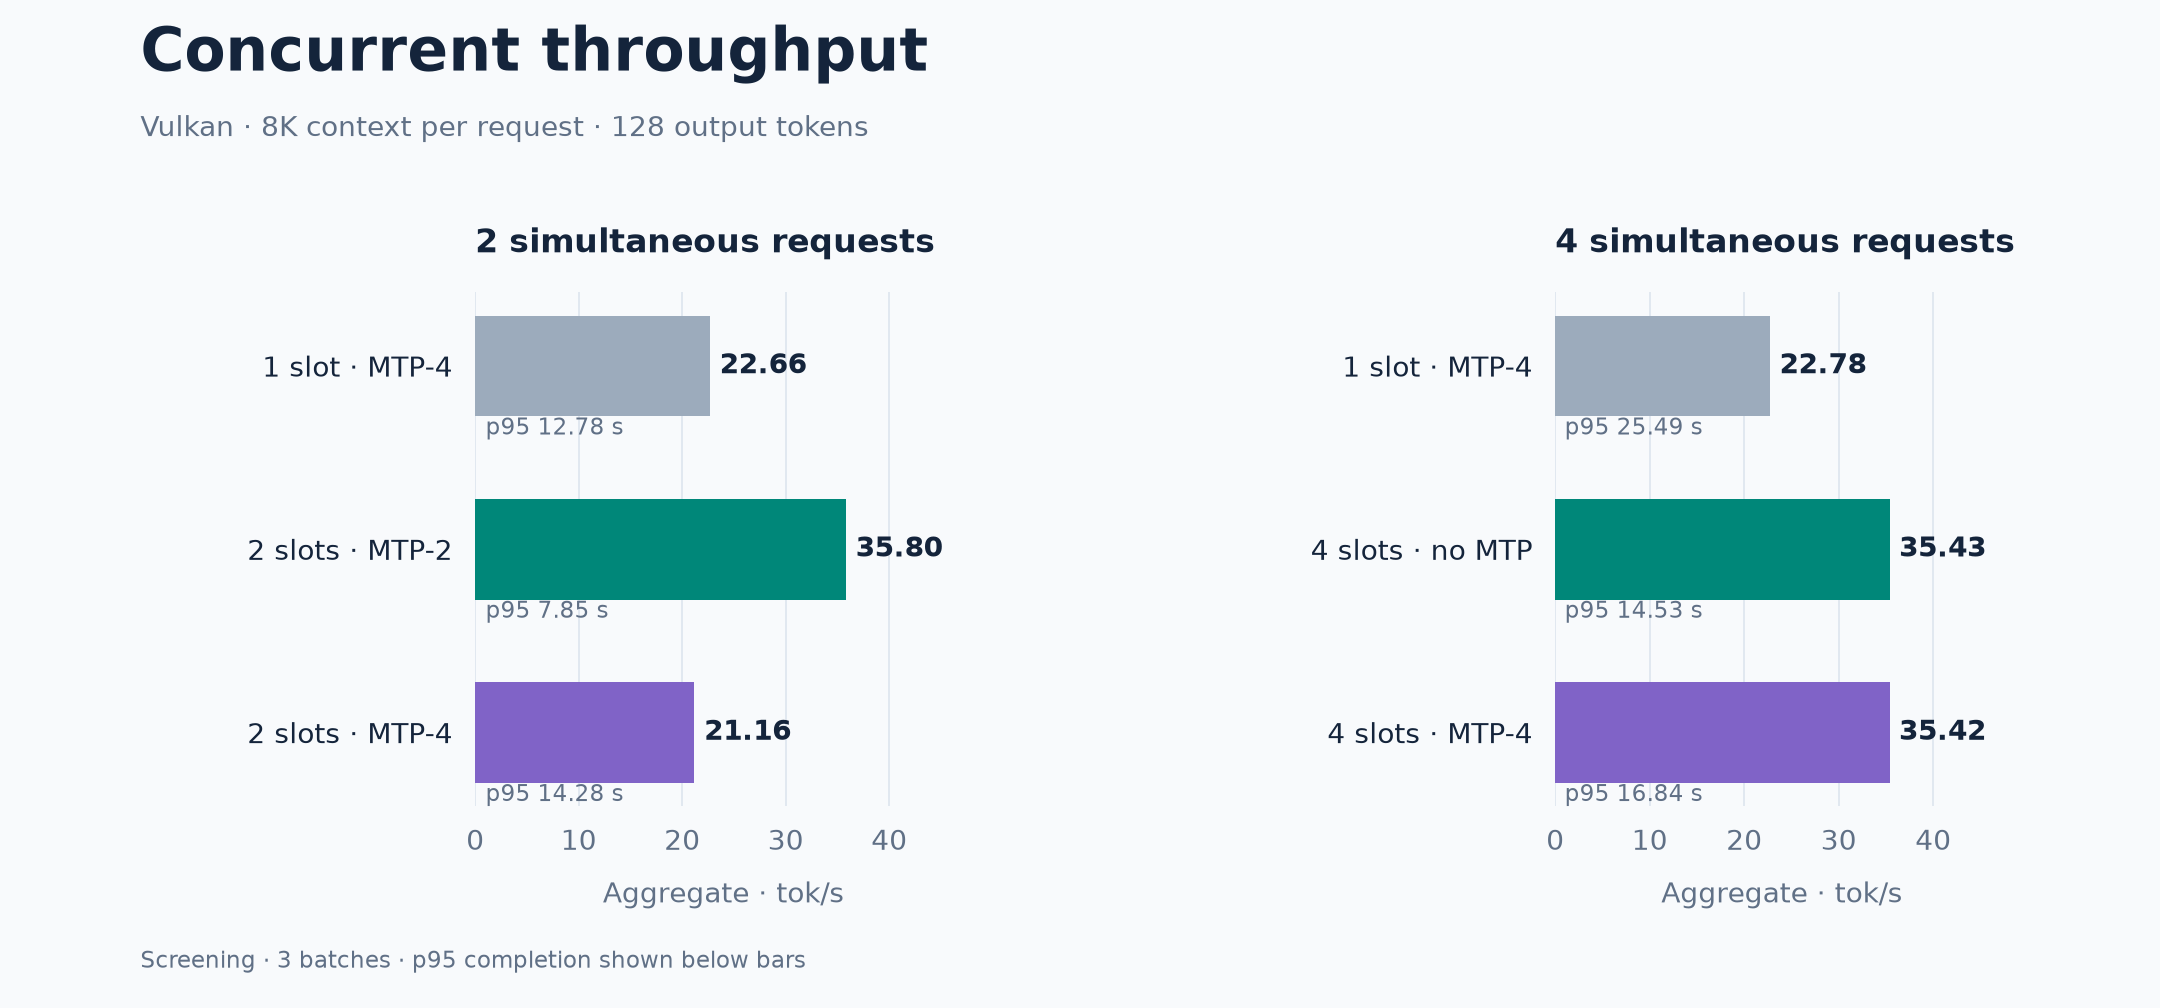
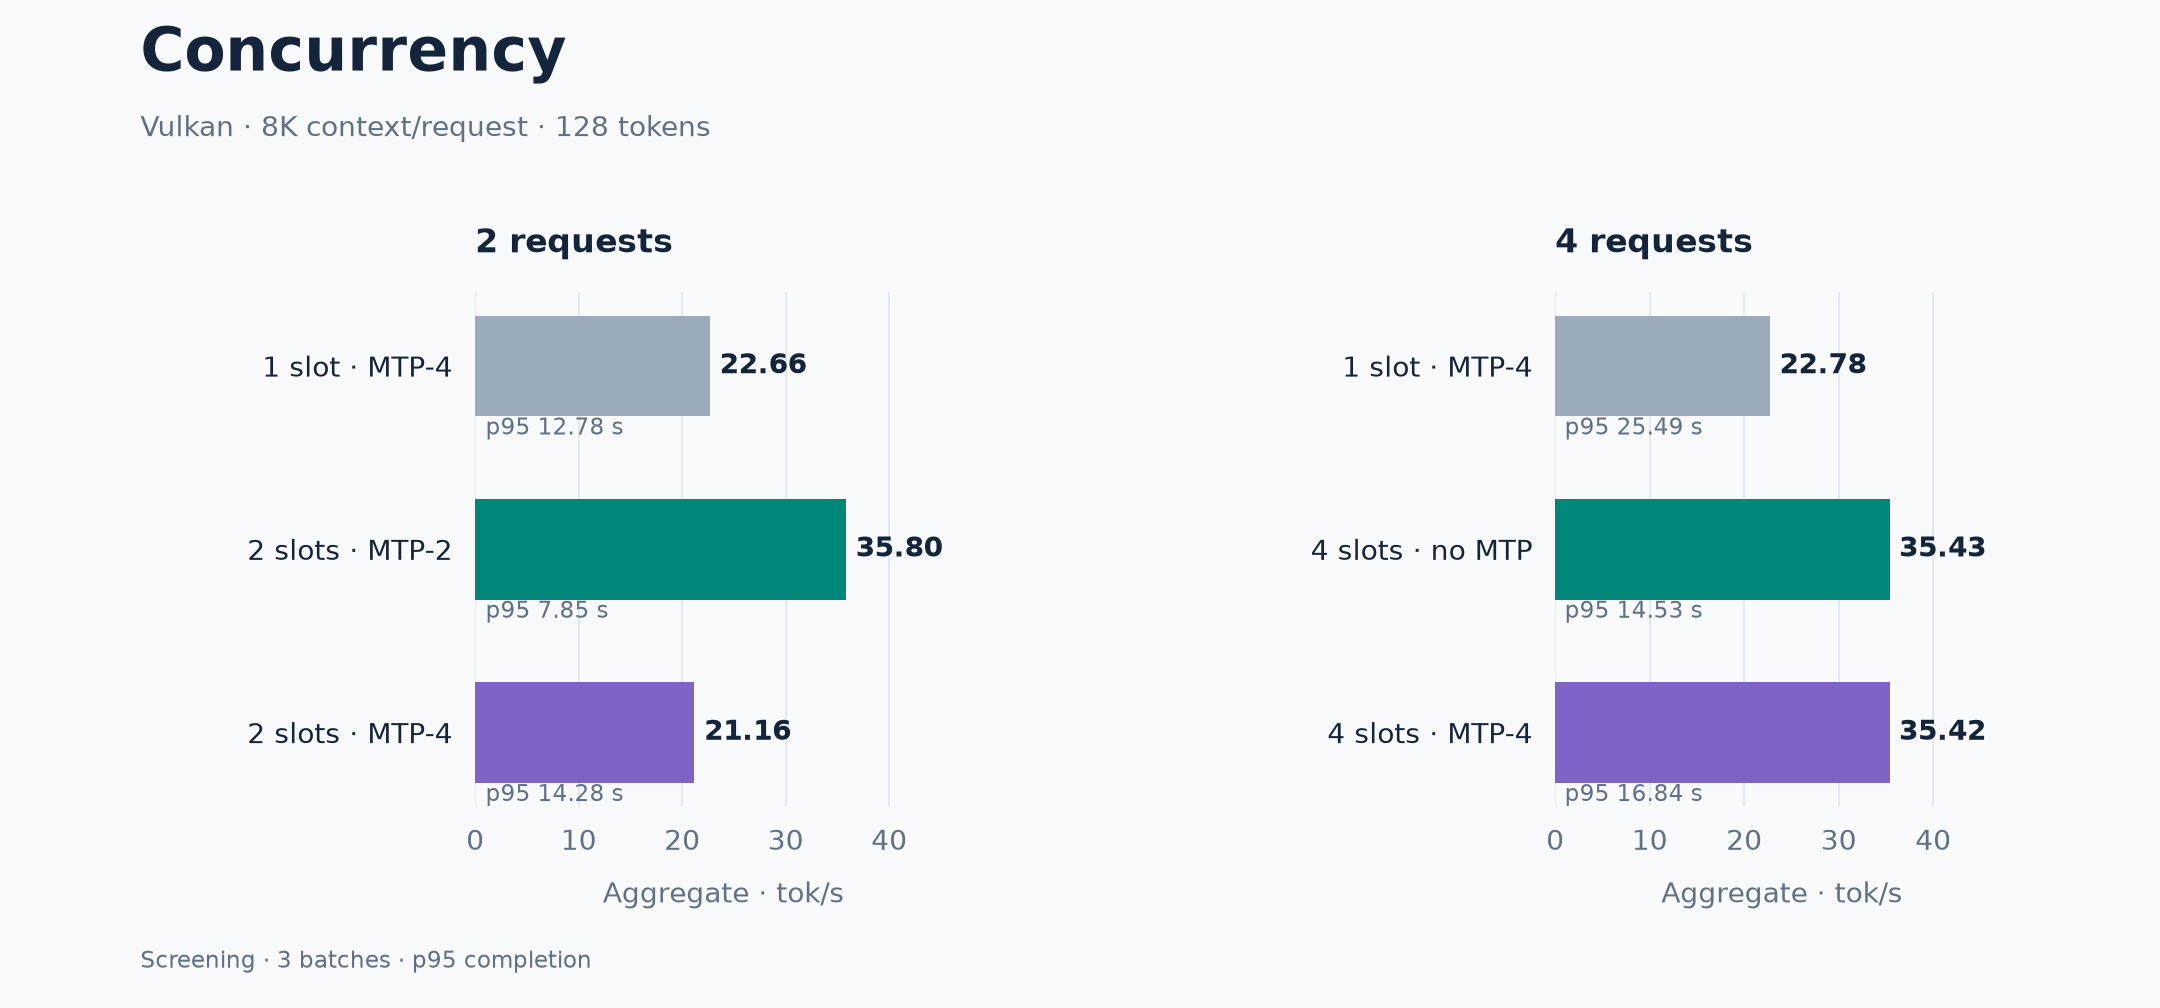
docs: minimize benchmark prose and chart labels

diff --git a/tools/render_charts.py b/tools/render_charts.py
@@ -56,28 +56,28 @@ def save(fig, name):
 
 
 initial = D['initial']; deployed = initial['deployed']; plain = initial['plain-vulkan']
-fig = figure('Gemma 4 31B performance',
-    'ASUS ROG Flow Z13 (2025) · Ryzen AI Max+ 395 · 64 GiB',
-    'Vulkan · Q4_K_M · 128 output tokens · 9 requests', 6.2)
-for x, value, label, color in [(.065, f"{deployed['median_decode_tps']:.2f}", 'TOKENS / SECOND · MEDIAN', BLUE),
+fig = figure('Gemma 4 31B',
+    'ROG Flow Z13 (2025)',
+    'Vulkan · Q4_K_M · 128 tokens · n=9', 6.2)
+for x, value, label, color in [(.065, f"{deployed['median_decode_tps']:.2f}", 'MEDIAN TOK/S', BLUE),
         (.385, f"{deployed['median_decode_tps']/plain['median_decode_tps']:.2f}×", 'VS PLAIN VULKAN', TEAL),
-        (.715, f"{deployed['ttft_p50_s']:.3f} s", 'FIRST TOKEN · MEDIAN', PURPLE)]:
+        (.715, f"{deployed['ttft_p50_s']:.3f} s", 'MEDIAN TTFT', PURPLE)]:
     fig.text(x, .735, value, fontsize=31, fontweight='bold', color=color)
     fig.text(x, .685, label, fontsize=9, color=MUTED)
-ax=axis(fig,[.18,.18,.68,.36], 'Generation throughput', 'Median · tok/s')
+ax=axis(fig,[.18,.18,.68,.36], 'Generation', 'Median · tok/s')
 bars(ax,['MTP-4','Plain'],[deployed['median_decode_tps'],plain['median_decode_tps']],[BLUE,GREY],35)
 save(fig,'overview')
 
-fig=figure('MTP draft depth',
+fig=figure('MTP depth',
     'Vulkan · Q4_K_M · Q8 assistant',
-    'Screening · 9 requests per case')
-ax=axis(fig,[.09,.19,.81,.54],unit='Maximum draft tokens')
+    'Screening · n=9')
+ax=axis(fig,[.09,.19,.81,.54],unit='Draft tokens')
 ax.grid(axis='y',color=GRID); ax.xaxis.grid(False)
 rows=sorted(D['depth'],key=lambda r:int(r['case'].removeprefix('mtp')))
 x=[int(r['case'].removeprefix('mtp')) for r in rows]; y=[r['median_tps'] for r in rows]
 ax.plot(x,y,color=BLUE,lw=2.5,marker='o',markersize=7)
 ax.fill_between(x,y,0,color=BLUE,alpha=.06)
-ax.set_ylim(0,30);ax.set_xticks(x);ax.set_ylabel('Median generation · tok/s')
+ax.set_ylim(0,30);ax.set_xticks(x);ax.set_ylabel('Median · tok/s')
 for a,b in zip(x,y):ax.annotate(f'{b:.2f}',(a,b),xytext=(0,12),textcoords='offset points',ha='center',fontsize=10)
 ax.scatter([4],[y[3]],s=140,color=TEAL,zorder=5)
 save(fig,'speculation')
@@ -85,18 +85,18 @@ save(fig,'speculation')
 q=D['target-quants-results']; labels=['Q4_K_M','IQ4_XS','Q4_0']; names=['baseline-before','iq4_xs','q4_0']
 fig=figure('Quantization',
     'Vulkan · MTP-4',
-    'Screening · quality validation incomplete')
+    'Screening · quality pending')
 ax=axis(fig,[.17,.20,.30,.51],'Aggregate decode','tok/s')
 bars(ax,labels,[q[n]['aggregate_decode_tps'] for n in names],[GREY,PURPLE,TEAL],34)
 ax=axis(fig,[.66,.20,.26,.51],'First token · p95','seconds')
 bars(ax,labels,[q[n]['ttft_p95_s'] for n in names],[GREY,PURPLE,TEAL],.82,decimals=3)
 save(fig,'quantization')
 
-fig=figure('Long-context latency',
-    'Vulkan · cold prefix · 128 output tokens',
-    'Screening · 3 requests · context capacity = 2× input')
+fig=figure('Context latency',
+    'Vulkan · cold prefix · 128 tokens',
+    'Screening · n=3 · context = 2× input')
 for rect,key,title in [([.09,.21,.36,.51],'ttft_p50_s','First token · median'),([.59,.21,.34,.51],'completion_p50_s','Completion · median')]:
-    ax=axis(fig,rect,title,'Actual input tokens'); ax.xaxis.grid(False);ax.grid(axis='y',color=GRID)
+    ax=axis(fig,rect,title,'Input tokens'); ax.xaxis.grid(False);ax.grid(axis='y',color=GRID)
     for kv,label,color in [('f16','F16',GREY),('q8_0','Q8',TEAL),('q4_0','Q4',PURPLE)]:
         vals=[]
         for ctx in [8192,16384,32768]:
@@ -110,20 +110,20 @@ for rect,key,title in [([.09,.21,.36,.51],'ttft_p50_s','First token · median'),
 save(fig,'long-context')
 
 c=D['concurrency-results']
-fig=figure('Concurrent throughput',
-    'Vulkan · 8K context per request · 128 output tokens',
-    'Screening · 3 batches · p95 completion shown below bars')
-for rect,title,keys,labels in [([.22,.20,.23,.51],'2 simultaneous requests', ['queued2-mtp4','clients2-mtp2','clients2-mtp4'],['1 slot · MTP-4','2 slots · MTP-2','2 slots · MTP-4']),
-    ([.72,.20,.21,.51],'4 simultaneous requests',['queued4-mtp4','clients4-mtp0','clients4-mtp4'],['1 slot · MTP-4','4 slots · no MTP','4 slots · MTP-4'])]:
+fig=figure('Concurrency',
+    'Vulkan · 8K context/request · 128 tokens',
+    'Screening · 3 batches · p95 completion')
+for rect,title,keys,labels in [([.22,.20,.23,.51],'2 requests', ['queued2-mtp4','clients2-mtp2','clients2-mtp4'],['1 slot · MTP-4','2 slots · MTP-2','2 slots · MTP-4']),
+    ([.72,.20,.21,.51],'4 requests',['queued4-mtp4','clients4-mtp0','clients4-mtp4'],['1 slot · MTP-4','4 slots · no MTP','4 slots · MTP-4'])]:
     ax=axis(fig,rect,title,'Aggregate · tok/s')
     bars(ax,labels,[c[k]['aggregate_wall_tps'] for k in keys],[GREY,TEAL,PURPLE],48)
     for i,k in enumerate(keys):
         ax.text(1,i+.28,f"p95 {c[k]['completion_p95_s']:.2f} s",color=MUTED,fontsize=9,va='top')
 save(fig,'concurrency')
 
-fig=figure('Vulkan kernel dispatch',
+fig=figure('Kernel dispatch',
     'Q4_K matrix · 21,504 × 5,376',
-    'Diagnostic trace · generation from separate screening batches')
+    'Diagnostic trace · separate screening batches')
 ax=axis(fig,[.23,.20,.23,.51],'Operation duration','microseconds / call')
 bars(ax,['5 columns · MMV','9 columns · MM'],D['kernel']['duration_us'],[TEAL,GOLD],1250,decimals=0)
 ax=axis(fig,[.76,.20,.17,.51],'Median generation','tok/s')

diff --git a/docs/methodology.md b/docs/methodology.md
@@ -1,38 +1,35 @@
-# Measurement protocol
+# Metrics
 
-## Workloads
+## Protocol
 
-| Suite | Inputs | Outputs | Repetitions |
+| Suite | Input | Output | Timed runs |
 |---|---|---|---|
-| Interactive | English prose, Python, Korean | 128 fixed tokens | 1 warmup + 3 timed / prompt |
-| Long context | 4096 / 8192 / 16384 actual tokens; cold and reused prefixes | 128 fixed tokens | 1 warmup + 3 timed / workload |
-| Concurrency | 1 / 2 / 4 simultaneous requests; 8192 context tokens per request | 128 tokens / request | 1 warmup + 3 timed batches |
+| Interactive | English, Python, Korean | 128 tokens | 3 / prompt |
+| Context | 4K / 8K / 16K; cold/reused | 128 tokens | 3 / case |
+| Concurrency | 1 / 2 / 4 clients; 8K context/client | 128 tokens/client | 3 batches |
 
-Fixed-length comparisons disable reasoning, use greedy sampling, and ignore EOS. Service canaries separately check natural EOS, default reasoning, authentication, Korean, code, retrieval, and streaming token accounting.
+One discarded warmup. Greedy decoding; reasoning off; fixed length. Serial runs with baseline brackets. Natural EOS and default reasoning checked separately.
 
-Cases run serially. Candidate order is randomized where configured, with baseline brackets. No downloads, conversions, or other GPU work run during timed batches.
+## Definitions
 
-## Metrics
-
-| Metric | Definition |
+| Metric | Calculation |
 |---|---|
-| Median decode | Median `(predicted_n − 1) / generation_seconds` across requests |
-| Aggregate decode | Sum of generated tokens excluding first tokens / summed generation time |
-| Aggregate wall throughput | All generated tokens / summed batch wall time; includes request overhead |
-| TTFT | Client time from request start to first streamed content |
-| Completion | Client time from request start to completed response |
-| p95 | Linear interpolation of sorted observations |
+| Median decode | Median `(tokens − 1) / generation time` |
+| Aggregate decode | `Σ(tokens − 1) / Σgeneration time` |
+| Wall throughput | `Σtokens / Σbatch wall time` |
+| TTFT | Request → first content |
+| Completion | Request → final response |
+| p95 | Interpolated 95th percentile |
 
-Streaming chunks can contain multiple speculative tokens. Chunk-arrival gaps do not measure individual internal GPU token latency. Small screening samples produce descriptive percentiles, not robust tail estimates. Package-power readings are not wall-plug measurements.
+Stream chunks may contain multiple tokens. Small-sample p95 is descriptive. Package power excludes wall-plug losses.
 
-## Promotion gates — incomplete
+## Gates
 
-Finalists require ten randomized adjacent baseline/candidate pairs, ≥5% primary improvement, a paired 95% confidence interval excluding zero, and ≤5% secondary latency regression. Backend correctness, service canaries, sustained load, restart recovery, and no GPU resets are additional requirements.
+| Check | Requirement |
+|---|---|
+| Performance | ≥5% gain; ten pairs; positive 95% paired interval |
+| Secondary latency | ≤5% regression |
+| Quantization | ≤1% relative PPL increase/language; ≤2 pp coding loss |
+| Correctness | Backend tests, JSON, retrieval, EOS, restart, sustained load; no GPU resets |
 
-Changed quantization requires ≤1% relative perplexity increase separately on fixed English/Korean corpora, ≤2 percentage-point coding-score loss, and no new strict JSON or retrieval failures.
-
-The fixed perplexity samples produced unusually high absolute scores. An independent logit probe reproduced a chunk score, but this remains a narrow relative comparison. No general quality equivalence is claimed.
-
-## State at pause
-
-No follow-up preset completed all gates. The thermal plateau check rejected phase-dependent temperature cycles and needs review before final paired runs. Early smoke checks extracted fenced JSON; those checks establish semantic content only. Later checks parse the complete response as strict JSON.
+Final validation incomplete. Thermal plateau check failed. Absolute PPL scores were unusually high. Early JSON smoke accepted fences; later checks parse the complete response.

diff --git a/docs/setup.md b/docs/setup.md
@@ -1,6 +1,6 @@
 # Setup
 
-Fedora 44 · AC power · default path: `/srv/amd-halo`. [Software versions](../data/software.json).
+Fedora 44 · AC power · `/srv/amd-halo` · [Versions](../data/software.json)
 
 ## Build & models
 
@@ -12,9 +12,9 @@ bash scripts/build.sh vulkan
 python3 scripts/download.py Q4_K_M MTP --directory /srv/amd-halo/models
 ```
 
-Runtime/model hashes: [`versions.json`](../versions.json). Target: 18.32 GB; assistant: 0.51 GB.
+[Hashes](../versions.json) · target 18.32 GB · assistant 0.51 GB
 
-Native HIP is optional:
+### HIP
 
 ```sh
 python3 -m venv /srv/amd-halo/rocm-venv
@@ -36,7 +36,7 @@ sudo docker image inspect amd-halo-gemma4:vulkan --format '{{.Id}}'
 cp .env.example .env
 ```
 
-Set `HALO_IMAGE` to the inspected image ID, `RENDER_GID` to the render-device group, and `API_KEY_FILE` to a private file outside Git. Create `/srv/amd-halo/cache` writable by UID 1000. The Compose container uses UID/GID 1000; adapt those IDs if needed.
+Set `.env`: `HALO_IMAGE`, `RENDER_GID`, `API_KEY_FILE`. Credentials outside Git; cache writable by container UID 1000.
 
 ```sh
 sudo docker compose -f compose.yaml -f compose.mtp.yaml up -d
@@ -44,7 +44,7 @@ python3 scripts/validate_service.py --url http://127.0.0.1:8080 \
   --key-file /srv/amd-halo/secrets/api-key --output results/service-validation.json
 ```
 
-The authenticated OpenAI-compatible endpoint is `http://127.0.0.1:8080/v1`, with model alias `gemma-4-31b`. It binds to loopback; use an SSH tunnel for remote access. API reasoning remains enabled by default.
+API: `http://127.0.0.1:8080/v1` · `gemma-4-31b` · bearer authentication · default reasoning
 
 ## Profile
 
@@ -53,16 +53,16 @@ python3 scripts/http_profile.py --url http://127.0.0.1:8080 \
   --key-file /srv/amd-halo/secrets/api-key --output results/http.json
 ```
 
-Stop Compose before native benchmarks. Reference checkout: `/srv/amd-halo/stack`. [Experiment guide](../experiments/README.md).
+Native runs: stop Compose first. [Harness](../experiments/README.md).
 
-Benchmarks use the performance profile. `systemd/amd-halo-performance.service` applies it; stopping the unit restores balanced.
+Power: performance. Stop `amd-halo-performance.service` to restore balanced.
 
 ## Restore / stop
 
 ```sh
-# Restore the preserved Q4_K_M / MTP-4 configuration after an experiment:
+# Restore:
 sudo docker compose -f compose.yaml -f compose.mtp.yaml up -d
-# Stop inference without deleting models:
+# Stop:
 sudo docker compose -f compose.yaml -f compose.mtp.yaml down
 ```
 

diff --git a/experiments/README.md b/experiments/README.md
@@ -1,18 +1,16 @@
-# Experimental harness
+# Harness
 
-Manifests use example host paths under `/srv/amd-halo`. They are screening configurations, not qualified deployment presets. Adjust paths before use; preserve the original stack at `/srv/amd-halo/stack`.
+Reference: `/srv/amd-halo/stack`. Lock: `/srv/amd-halo/experiments/benchmark.lock`.
 
-Copy `scripts/`, `experiments/`, `patches/`, and `versions.json` into an isolated experiment directory. The wrapper takes `/srv/amd-halo/experiments/benchmark.lock`, stops the reference service, and restores it on exit.
+Copy `scripts/`, `experiments/`, `patches/`, and `versions.json` into an isolated directory. The wrapper stops/restores Compose.
 
 ```sh
 bash scripts/run-campaign.sh experiments/long-context.json context-results
 python3 scripts/analyze-campaign.py context-results
 ```
 
-Run only one GPU workload at a time. Use fresh result directories for incomplete cases. Numerical tests must execute nonempty case selections and retain upstream tolerances.
+One GPU workload at a time. Fresh directories for incomplete runs. Nonempty numerical tests; upstream tolerances.
 
-Ten-pair finalist manifests can be generated with `scripts/make-pairs.py`. The current thermal plateau criterion failed on workload temperature cycles and needs review before final paired use. `screen-final-candidates.sh` queues unfinished stages; do not interpret its existence as completed validation.
+Thermal stabilization needs repair before paired validation. Coding evaluation requires the evaluator image ID. No automatic promotion.
 
-Quality tools cover fixed bilingual perplexity, restricted-container HumanEval, and strict JSON/retrieval canaries. The coding evaluator requires its immutable container image ID. No script promotes a candidate automatically.
-
-See [methodology](../docs/methodology.md), [experiment findings](../docs/experiments.md), and [setup / rollback](../docs/setup.md).
+[Setup](../docs/setup.md) · [Metrics](../docs/methodology.md)

diff --git a/docs/experiments.md b/docs/experiments.md
@@ -1,27 +1,21 @@
 # Experiments
 
-## MTP depth
+![MTP depth](../assets/speculation.png)
 
-![MTP draft depth](../assets/speculation.png)
-
-Depth 4 remains the reference. Confidence filtering and adaptive MTP produced no qualifying gain.
-
-## Kernel dispatch
-
-![Vulkan kernel dispatch](../assets/kernel-boundary.png)
-
-The 16-column dispatch patch improved MTP-8 but did not beat MTP-4. Selected numerical checks passed. The HIP wide-attention patch remains unqualified.
-
-## Results
+![Kernel dispatch](../assets/kernel-boundary.png)
 
 | Approach | Result |
 |---|---|
-| CPU-only | 4.10 tok/s · synthetic benchmark |
-| Q4 assistants | About 2% faster · below promotion threshold |
-| CPU affinity / polling | 23.62–23.72 median tok/s |
-| ROCmFP4, plain decode | 11.97 Vulkan / 10.95 HIP aggregate tok/s |
-| ROCmFPX MTP repairs | Model-level validation failed |
+| MTP depth | Reference: 4 |
+| Confidence / adaptive MTP | No qualifying gain |
+| 16-column dispatch | MTP-8: 19.02 tok/s; below MTP-4 |
+| HIP wide attention | Unqualified |
+| CPU-only | 4.10 tok/s · synthetic |
+| Q4 assistants | About +2% |
+| Affinity / polling | 23.62–23.72 median tok/s |
+| ROCmFP4, plain | 11.97 Vulkan / 10.95 HIP aggregate tok/s |
+| ROCmFPX MTP | Validation failed |
 | Four-slot HIP | 4800 MiB KV allocation failed |
-| NPU | No executable 31B target/assistant path established |
+| NPU | No 31B target/assistant execution path |
 
-[Patches](../patches/) · [Methodology](methodology.md) · [Source pins](../experiments/sources.json)
+[Patches](../patches/) · [Gates](methodology.md) · [Source pins](../experiments/sources.json)

diff --git a/README.md b/README.md
@@ -1,24 +1,16 @@
 # Gemma 4 31B · Strix Halo
 
-**ASUS ROG Flow Z13 (2025)**
+**ROG Flow Z13 (2025)** · Ryzen AI Max+ 395 · Radeon 8060S · 64 GiB
 
-![Generation throughput](assets/overview.png)
+![Generation](assets/overview.png)
 
-## Hardware
-
-| Component | Specification |
-|---|---|
-| APU | Ryzen AI Max+ 395 |
-| GPU | Radeon 8060S · gfx1151 |
-| Memory | 64 GiB · 8000 MT/s · 16 GiB GPU reservation |
-
-## Software
+## Stack
 
 | Component | Version |
 |---|---|
-| OS / kernel | Fedora 44 / Linux 7.2.9 |
+| Fedora / Linux | 44 / 7.2.9 |
 | llama.cpp | v0.6.0 · `d812350` |
-| ROCm SDK | 10.1.0 · gfx1151 |
+| ROCm | 10.1.0 |
 | Mesa / RADV | 26.2.3 |
 | Vulkan loader | 1.4.341.0 |
 | GCC / CMake | 16.2.1 / 4.3.0 |
@@ -26,16 +18,10 @@
 
 Q4_K_M · Q8 assistant · MTP-4 · F16 KV · 8K context
 
-## Quantization
-
 ![Quantization](assets/quantization.png)
 
-## Long context
+![Context](assets/long-context.png)
 
-![Long-context latency](assets/long-context.png)
+![Concurrency](assets/concurrency.png)
 
-## Concurrency
-
-![Concurrent throughput](assets/concurrency.png)
-
-[Setup](docs/setup.md) · [Methodology](docs/methodology.md) · [Experiments](docs/experiments.md) · [Data](data/README.md) · [Licenses](THIRD_PARTY_NOTICES.md)
+[Setup](docs/setup.md) · [Metrics](docs/methodology.md) · [Experiments](docs/experiments.md) · [Data](data/README.md) · [License](LICENSE)

diff --git a/data/README.md b/data/README.md
@@ -3,11 +3,11 @@
 | File | Contents |
 |---|---|
 | `metrics.json` | Chart inputs and aggregates |
-| `request-metrics.json` | 86 cases: numeric requests, settings, statuses, output hashes |
+| `request-metrics.json` | 86 cases; requests, settings, statuses |
 | `provenance.json` | Original artifact hashes |
-| `software.json` | Software versions and package records |
+| `software.json` | Software/package versions |
 
-Response text and credentials are excluded. Failed cases are retained but omitted from charts. Initial and campaign results are separate batches.
+No responses or credentials. Charts exclude failures. Initial/campaign batches are separate.
 
 [Runtime/model pins](../versions.json) · [Experimental source pins](../experiments/sources.json)
 
